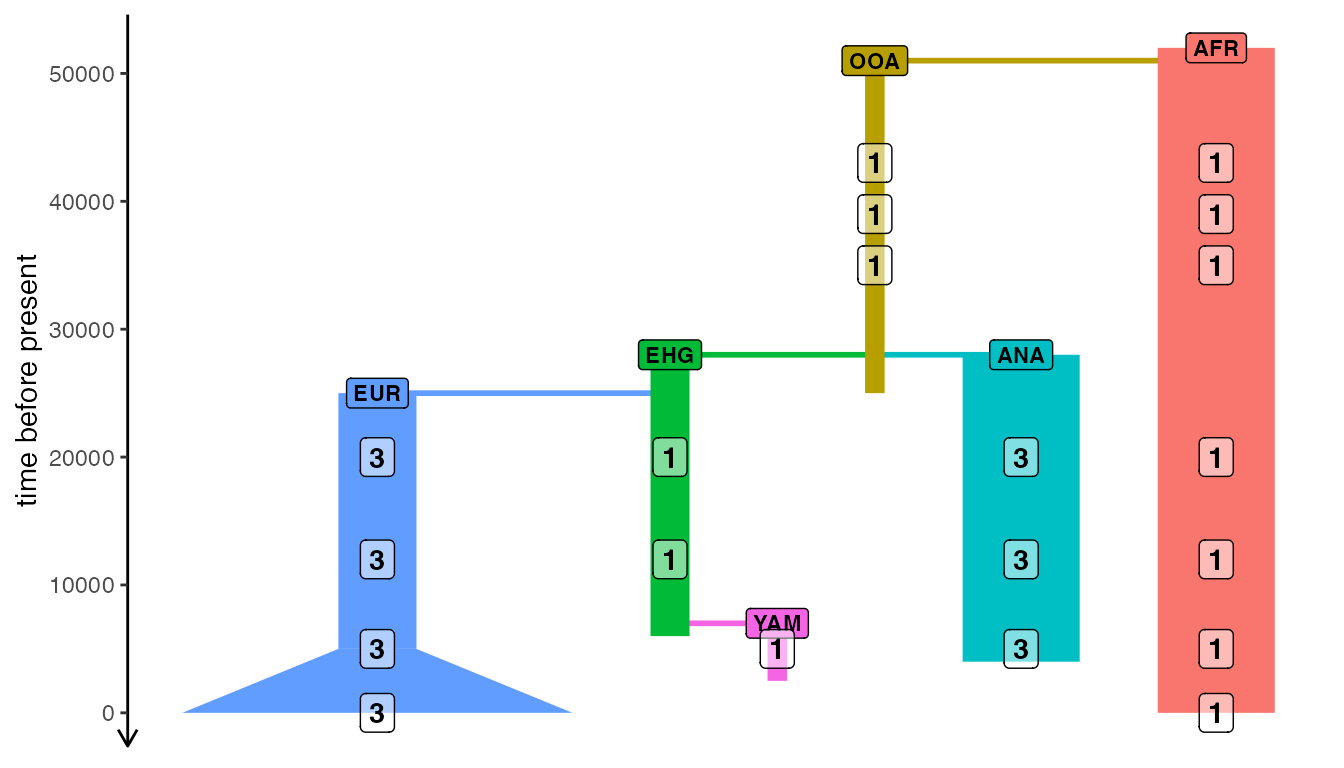
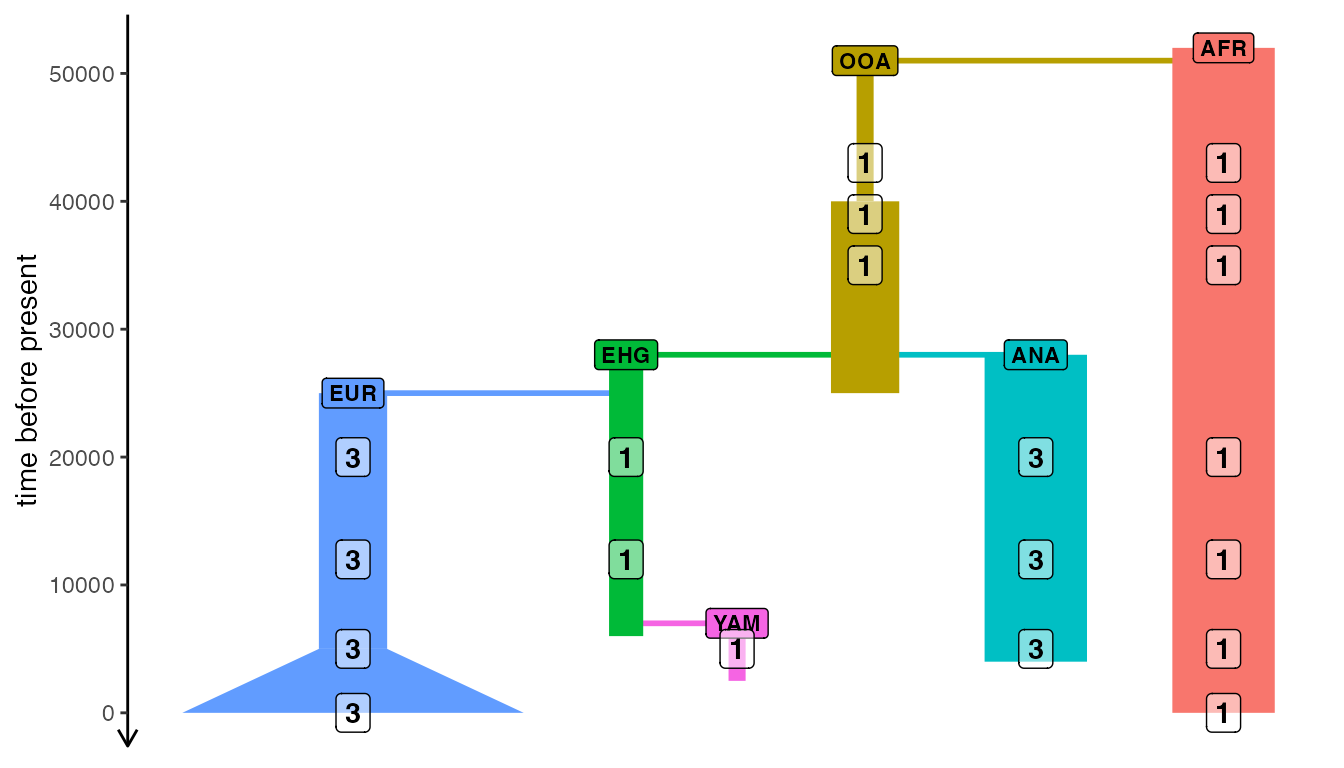
Add example of extract_parameters use

diff --git a/docs/articles/vignette-04-nonspatial-models.html b/docs/articles/vignette-04-nonspatial-models.html
@@ -155,7 +155,8 @@ events (note the missing <code>map</code> argument, which is set to
 <span><span class="va">afr</span> <span class="op">&lt;-</span> <span class="fu"><a href="../reference/population.html">population</a></span><span class="op">(</span><span class="st">"AFR"</span>, time <span class="op">=</span> <span class="fl">52000</span>, N <span class="op">=</span> <span class="fl">3000</span><span class="op">)</span></span>
 <span></span>
 <span><span class="co"># first migrants out of Africa</span></span>
-<span><span class="va">ooa</span> <span class="op">&lt;-</span> <span class="fu"><a href="../reference/population.html">population</a></span><span class="op">(</span><span class="st">"OOA"</span>, parent <span class="op">=</span> <span class="va">afr</span>, time <span class="op">=</span> <span class="fl">51000</span>, N <span class="op">=</span> <span class="fl">500</span>, remove <span class="op">=</span> <span class="fl">25000</span><span class="op">)</span></span>
+<span><span class="va">ooa</span> <span class="op">&lt;-</span> <span class="fu"><a href="../reference/population.html">population</a></span><span class="op">(</span><span class="st">"OOA"</span>, parent <span class="op">=</span> <span class="va">afr</span>, time <span class="op">=</span> <span class="fl">51000</span>, N <span class="op">=</span> <span class="fl">500</span>, remove <span class="op">=</span> <span class="fl">25000</span><span class="op">)</span> <span class="op"><a href="../reference/pipe.html">%&gt;%</a></span></span>
+<span>  <span class="fu"><a href="../reference/resize.html">resize</a></span><span class="op">(</span>N <span class="op">=</span> <span class="fl">2000</span>, time <span class="op">=</span> <span class="fl">40000</span>, how <span class="op">=</span> <span class="st">"step"</span><span class="op">)</span></span>
 <span></span>
 <span><span class="co"># Eastern hunter-gatherers</span></span>
 <span><span class="va">ehg</span> <span class="op">&lt;-</span> <span class="fu"><a href="../reference/population.html">population</a></span><span class="op">(</span><span class="st">"EHG"</span>, parent <span class="op">=</span> <span class="va">ooa</span>, time <span class="op">=</span> <span class="fl">28000</span>, N <span class="op">=</span> <span class="fl">1000</span>, remove <span class="op">=</span> <span class="fl">6000</span><span class="op">)</span></span>
@@ -233,6 +234,58 @@ tools. See <a href="vignette-05-tree-sequences.html">this vignette</a>
 for more information about tree sequence analysis with <em>slendr</em>,
 and for more discussion on alternative simulation back ends and more
 extensive examples of data analysis with tree sequences you can read <a href="vignette-07-backends.html">this tutorial</a>.</p>
+<div class="section level2">
+<h2 id="extracting-parameters-from-a-model-or-tree-sequences">Extracting parameters from a model or tree sequences<a class="anchor" aria-label="anchor" href="#extracting-parameters-from-a-model-or-tree-sequences"></a>
+</h2>
+<p>In some situations (such as when model parameters are drawn from
+random distributions and we need to know which parameters had been used
+<em>after</em> the simulations), function
+<code><a href="../reference/extract_parameters.html">extract_parameters()</a></code> can be used. This function peeks into
+a <em>slendr</em> tree sequence object and extract parameters of the
+original <em>slendr</em> model:</p>
+<div class="sourceCode" id="cb11"><pre class="downlit sourceCode r">
+<code class="sourceCode R"><span><span class="fu"><a href="../reference/extract_parameters.html">extract_parameters</a></span><span class="op">(</span><span class="va">ts_msprime</span><span class="op">)</span></span></code></pre></div>
+<pre><code><span><span class="co">#&gt; $splits</span></span>
+<span><span class="co">#&gt;   pop parent    N  time</span></span>
+<span><span class="co">#&gt; 1 AFR   &lt;NA&gt; 3000 52000</span></span>
+<span><span class="co">#&gt; 2 OOA    AFR  500 51000</span></span>
+<span><span class="co">#&gt; 3 EHG    OOA 1000 28000</span></span>
+<span><span class="co">#&gt; 5 ANA    OOA 3000 28000</span></span>
+<span><span class="co">#&gt; 4 EUR    EHG 2000 25000</span></span>
+<span><span class="co">#&gt; 6 YAM    EHG  500  7000</span></span>
+<span><span class="co">#&gt; </span></span>
+<span><span class="co">#&gt; $gene_flows</span></span>
+<span><span class="co">#&gt;   from  to start  end rate</span></span>
+<span><span class="co">#&gt; 1  ANA YAM  6500 6400 0.50</span></span>
+<span><span class="co">#&gt; 2  ANA EUR  8000 6000 0.50</span></span>
+<span><span class="co">#&gt; 3  YAM EUR  4000 3000 0.75</span></span>
+<span><span class="co">#&gt; </span></span>
+<span><span class="co">#&gt; $resizes</span></span>
+<span><span class="co">#&gt;   pop         how     N  time end</span></span>
+<span><span class="co">#&gt; 1 OOA        step  2000 40000  NA</span></span>
+<span><span class="co">#&gt; 2 EUR exponential 10000  5000   0</span></span></code></pre>
+<p>For completeness, although this isn’t relevant in this example
+either, the function can also get parameters from any compiled model.
+For instance, we can check which parameters were used to compile the
+built-in <em>slendr</em> introgression model by running:</p>
+<div class="sourceCode" id="cb13"><pre class="downlit sourceCode r">
+<code class="sourceCode R"><span><span class="va">introgression_model</span> <span class="op">&lt;-</span> <span class="fu"><a href="../reference/read_model.html">read_model</a></span><span class="op">(</span>path <span class="op">=</span> <span class="fu"><a href="https://rdrr.io/r/base/system.file.html" class="external-link">system.file</a></span><span class="op">(</span><span class="st">"extdata/models/introgression"</span>, package <span class="op">=</span> <span class="st">"slendr"</span><span class="op">)</span><span class="op">)</span></span>
+<span></span>
+<span><span class="fu"><a href="../reference/extract_parameters.html">extract_parameters</a></span><span class="op">(</span><span class="va">introgression_model</span><span class="op">)</span></span></code></pre></div>
+<pre><code><span><span class="co">#&gt; $splits</span></span>
+<span><span class="co">#&gt;   pop parent    N    time</span></span>
+<span><span class="co">#&gt; 1  CH   &lt;NA&gt;   10 6500000</span></span>
+<span><span class="co">#&gt; 2 AFR     CH   10 6000000</span></span>
+<span><span class="co">#&gt; 3 NEA    AFR   10  600000</span></span>
+<span><span class="co">#&gt; 4 EUR    AFR 5000   70000</span></span>
+<span><span class="co">#&gt; </span></span>
+<span><span class="co">#&gt; $gene_flows</span></span>
+<span><span class="co">#&gt;   from  to start   end rate</span></span>
+<span><span class="co">#&gt; 1  NEA EUR 55000 45000 0.03</span></span></code></pre>
+<p>As we can see, <code><a href="../reference/extract_parameters.html">extract_parameters()</a></code> returns a list of
+data frames, one data frame for each aspect of a demographic model
+(where applicable).</p>
+</div>
   </main>
 </div>
 
